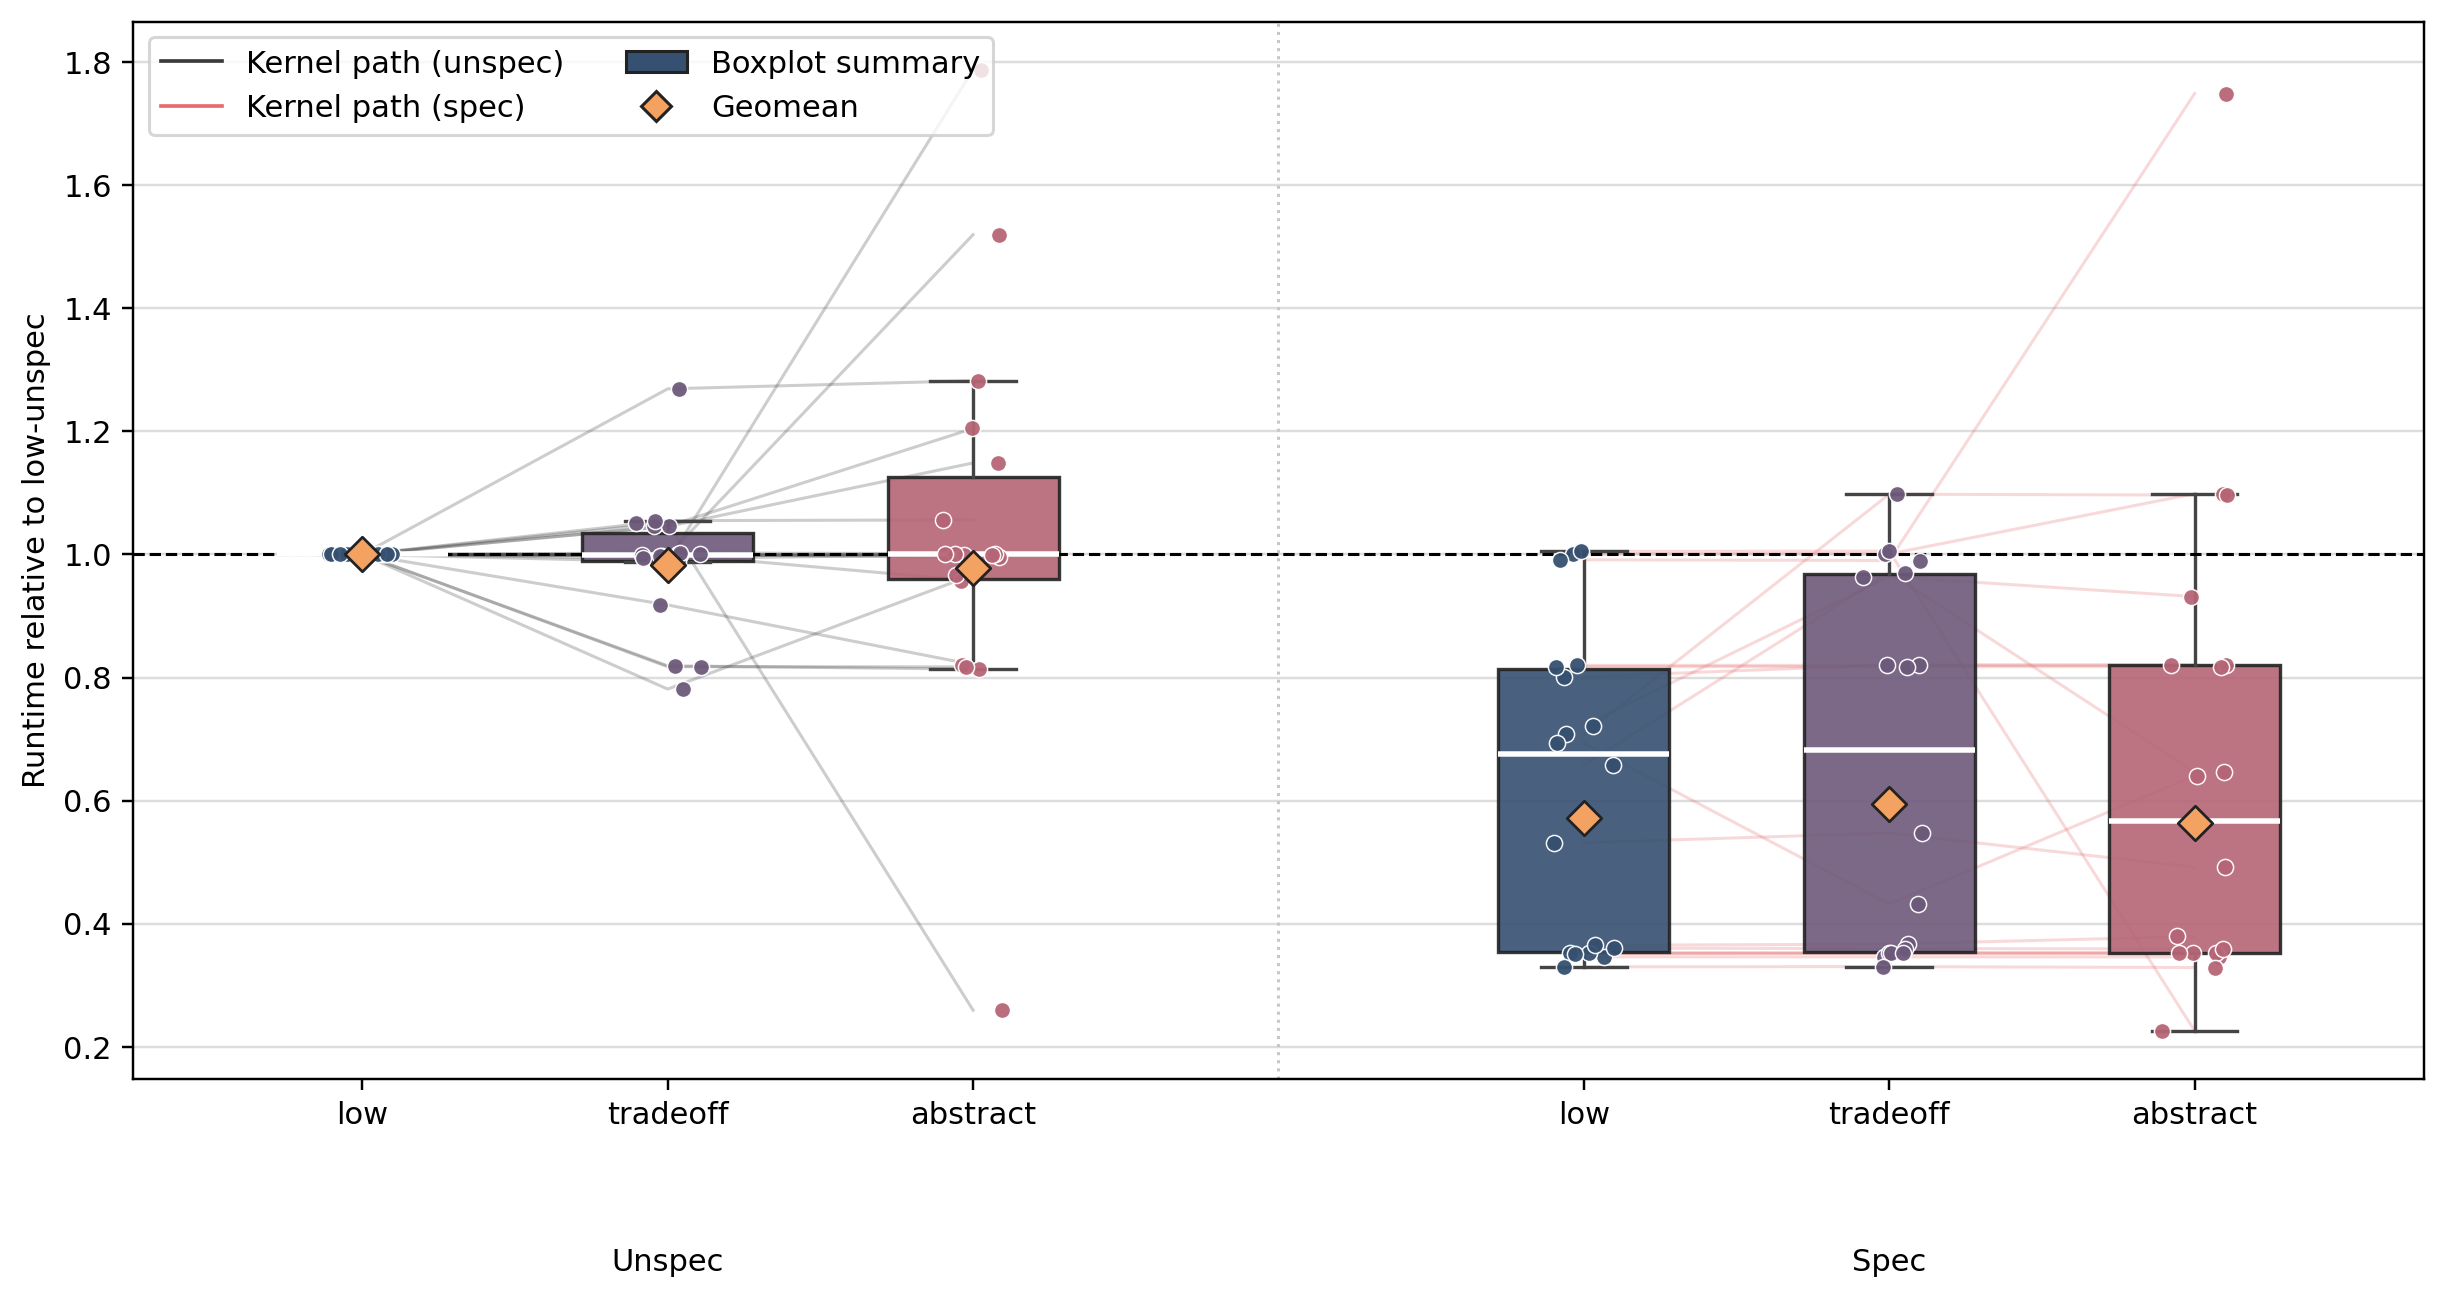
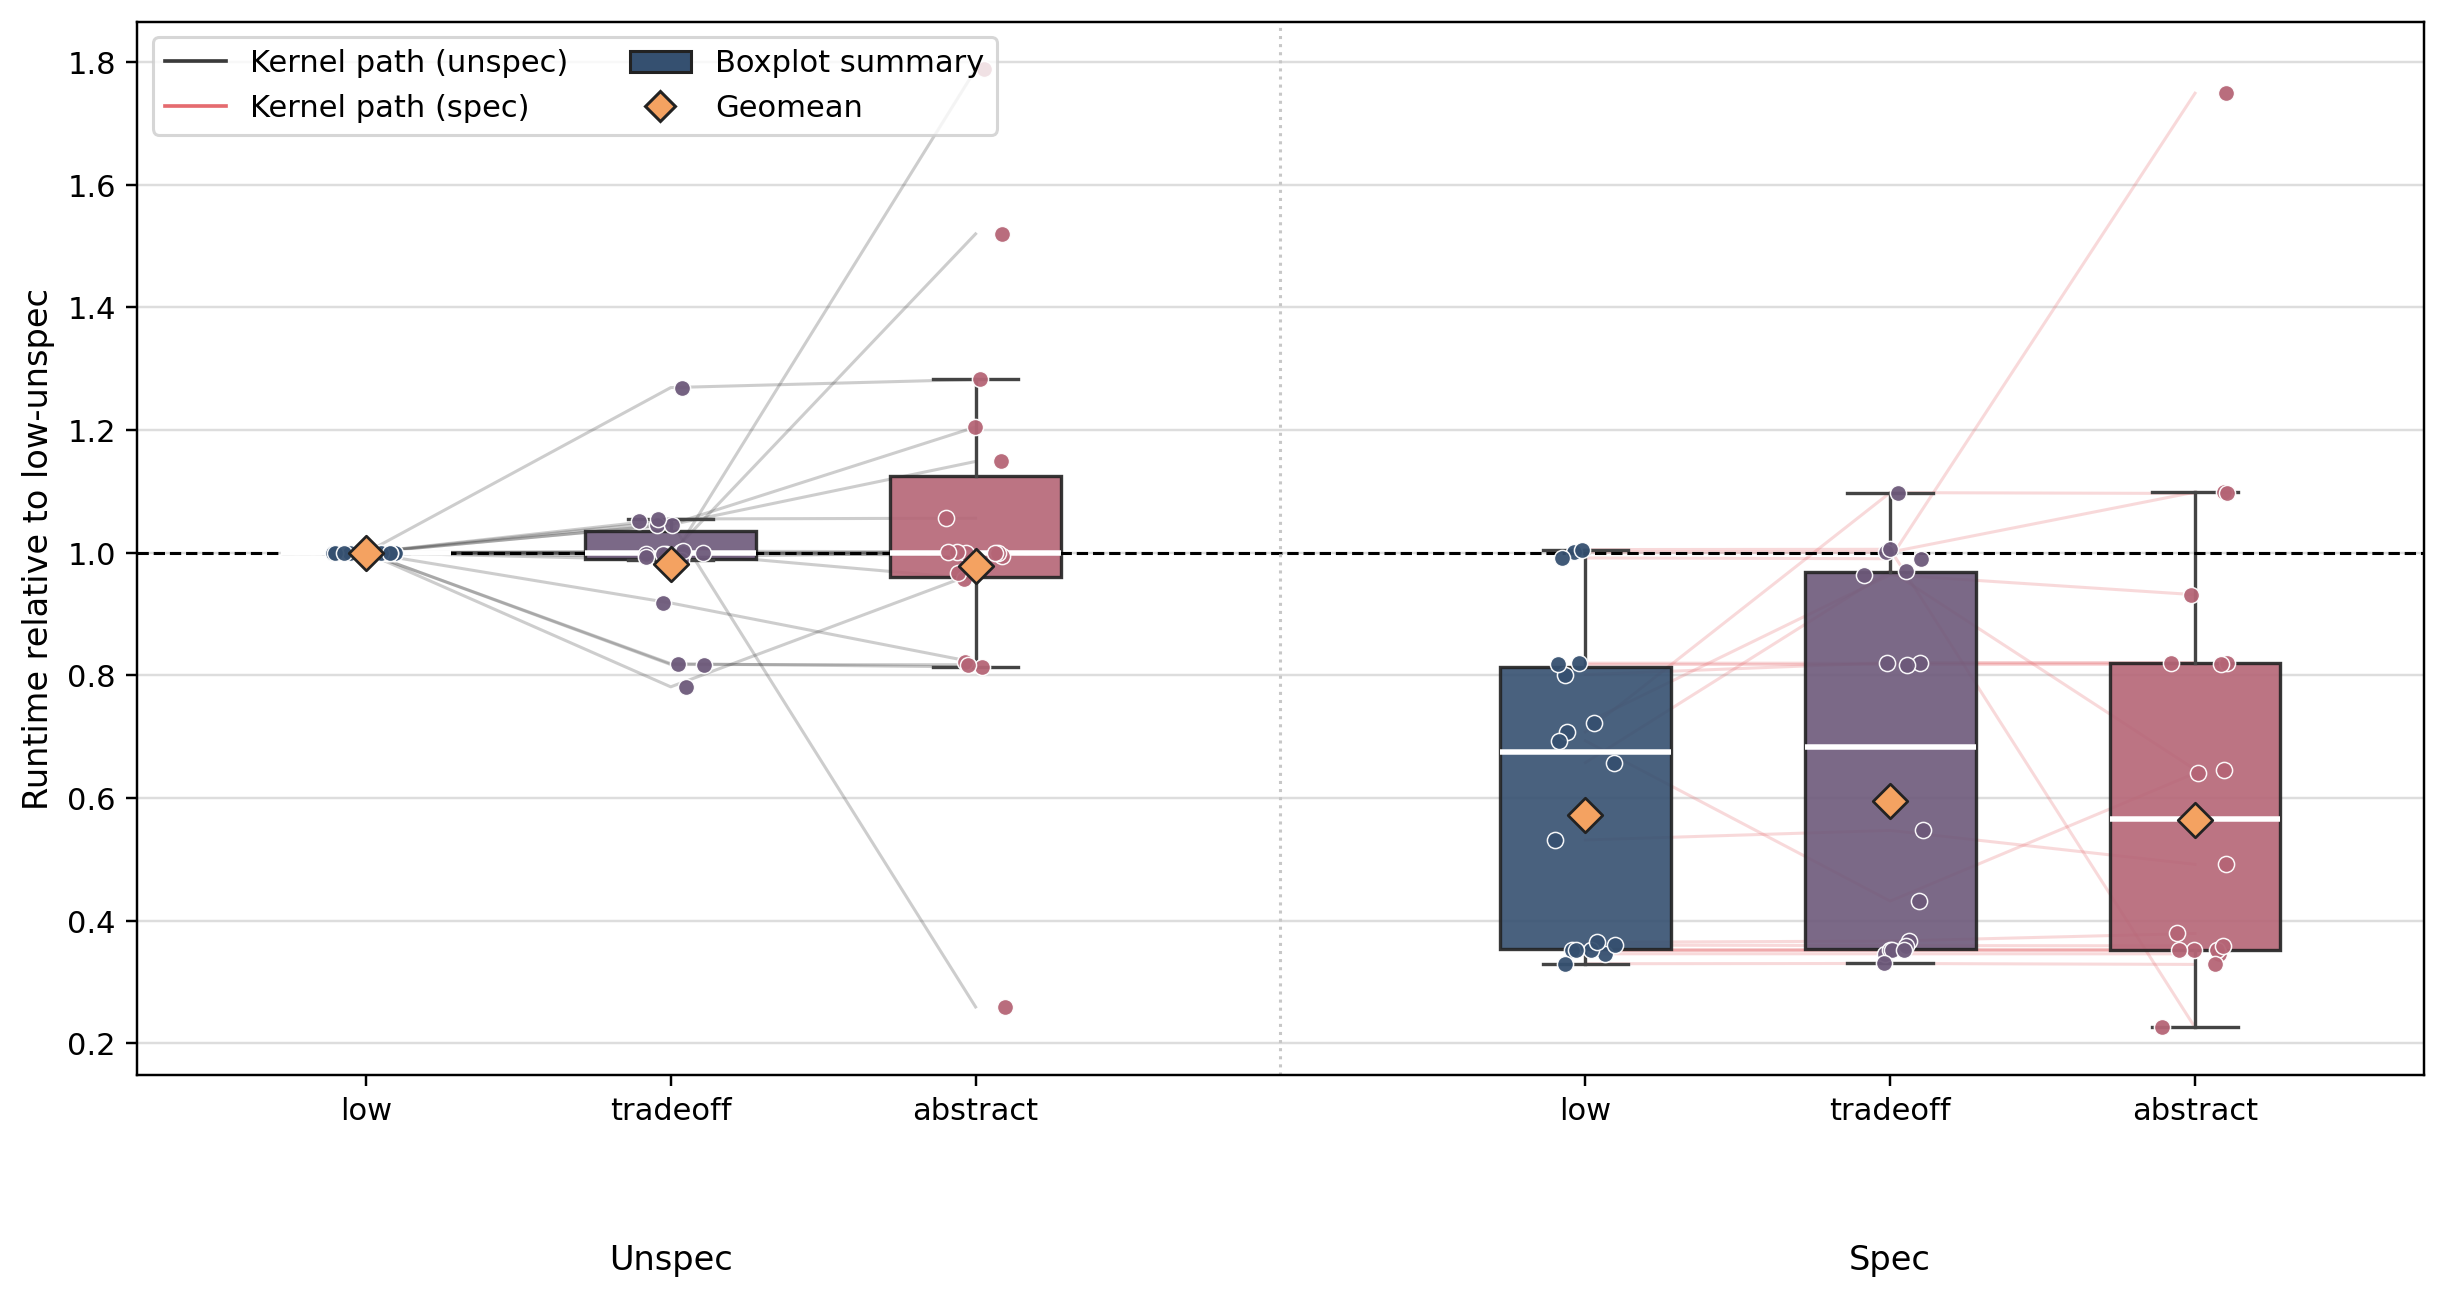
Improve thesis plot readability

diff --git a/runtime-specialization/benchmarks/reporting/plot_rq3_abstraction_benefit.py b/runtime-specialization/benchmarks/reporting/plot_rq3_abstraction_benefit.py
@@ -22,6 +22,18 @@ from matplotlib.patches import Patch
 import numpy as np
 import pandas as pd
 
+plt.rcParams.update(
+    {
+        "font.size": 11,
+        "axes.titlesize": 11,
+        "axes.labelsize": 11,
+        "xtick.labelsize": 10,
+        "ytick.labelsize": 10,
+        "legend.fontsize": 10,
+        "legend.title_fontsize": 10,
+    }
+)
+
 from report_utils import open_db, resolve_db_path, save_csv, save_plot
 
 
@@ -422,7 +434,7 @@ def _plot_aggregate(df: pd.DataFrame, output: Path, config_name: str, size: str)
 def _plot_kernel_grid(df: pd.DataFrame, output: Path, config_name: str, size: str) -> None:
     ordered_kernels = _ordered_kernel_rows(df)
     y_max = max(2.2, float(df["relative_runtime"].max()) * 1.08)
-    fig, axes = plt.subplots(3, 6, figsize=(18, 9.5), sharey=True, constrained_layout=True)
+    fig, axes = plt.subplots(3, 6, figsize=(20, 10.8), sharey=True, constrained_layout=True)
     axes_flat = axes.flatten()
 
     for ax, (group_name, kernel) in zip(axes_flat, ordered_kernels):
@@ -459,11 +471,11 @@ def _plot_kernel_grid(df: pd.DataFrame, output: Path, config_name: str, size: st
             [GROUP_POSITIONS[(phase, abstraction)] for phase in PHASE_ORDER for abstraction in ABSTRACTION_ORDER],
             ["L", "T", "A", "L", "T", "A"],
         )
-        ax.tick_params(axis="x", labelsize=8)
-        ax.tick_params(axis="y", labelsize=8)
-        ax.set_title(_kernel_display_label(group_name, kernel), fontsize=10)
-        ax.text(1.0, 0.98, "U", transform=ax.get_xaxis_transform(), ha="center", va="top", fontsize=8)
-        ax.text(5.0, 0.98, "S", transform=ax.get_xaxis_transform(), ha="center", va="top", fontsize=8)
+        ax.tick_params(axis="x", labelsize=9)
+        ax.tick_params(axis="y", labelsize=9)
+        ax.set_title(_kernel_display_label(group_name, kernel), fontsize=11)
+        ax.text(1.0, 0.98, "U", transform=ax.get_xaxis_transform(), ha="center", va="top", fontsize=9)
+        ax.text(5.0, 0.98, "S", transform=ax.get_xaxis_transform(), ha="center", va="top", fontsize=9)
 
     for ax in axes[:, 0]:
         ax.set_ylabel("relative runtime")

diff --git a/runtime-specialization/benchmarks/reporting/plot_rq1_perf_stats_boxplots.py b/runtime-specialization/benchmarks/reporting/plot_rq1_perf_stats_boxplots.py
@@ -18,6 +18,16 @@ matplotlib.use("Agg")
 import matplotlib.pyplot as plt
 import numpy as np
 
+plt.rcParams.update(
+    {
+        "font.size": 11,
+        "axes.labelsize": 11,
+        "xtick.labelsize": 10,
+        "ytick.labelsize": 10,
+        "legend.fontsize": 10,
+    }
+)
+
 
 def _parse_args() -> argparse.Namespace:
     parser = argparse.ArgumentParser(
@@ -78,7 +88,7 @@ def main() -> None:
     data = [default_speedups, best_speedups]
     ypos = np.array([2, 1], dtype=float)
 
-    fig, ax = plt.subplots(figsize=(9.2, 2), constrained_layout=True)
+    fig, ax = plt.subplots(figsize=(10.4, 2.6), constrained_layout=True)
     bp = ax.boxplot(
         data,
         positions=ypos,
@@ -138,7 +148,7 @@ def main() -> None:
             textcoords="offset points",
             va="top",
             ha="center",
-            fontsize=9,
+            fontsize=10,
             color="#222222",
             zorder=5,
         )
@@ -147,7 +157,7 @@ def main() -> None:
     ax.set_xlabel("Amortized speedup")
     ax.grid(axis="x", color="#d9d9d9", linewidth=0.8)
     ax.set_axisbelow(True)
-    ax.legend(loc="lower right")
+    ax.legend(loc="lower right", fontsize=10)
 
     fig.savefig(output, dpi=220, bbox_inches="tight")
     plt.close(fig)

diff --git a/runtime-specialization/benchmarks/reporting/plot_pareto_configs.py b/runtime-specialization/benchmarks/reporting/plot_pareto_configs.py
@@ -33,6 +33,17 @@ import matplotlib
 matplotlib.use("Agg")
 import matplotlib.pyplot as plt
 
+plt.rcParams.update(
+    {
+        "font.size": 11,
+        "axes.titlesize": 11,
+        "axes.labelsize": 11,
+        "xtick.labelsize": 10,
+        "ytick.labelsize": 10,
+        "legend.fontsize": 10,
+    }
+)
+
 sys.path.insert(0, str(Path(__file__).parent.parent))
 from record_benchmark import resolve_db_path
 from report_utils import make_report_dir
@@ -422,7 +433,7 @@ def render_kernel(rows, default_flags, output_path_png: Path, output_path_csv: P
     _write_csv(output_path_csv, rows, default_flags, global_pareto)
 
     # --- PNG ---
-    fig, ax = plt.subplots(figsize=(9, 6))
+    fig, ax = plt.subplots(figsize=(10, 6.8))
     dflags = np.array(default_flags)
 
     if has_levels:
@@ -492,8 +503,9 @@ def render_kernel(rows, default_flags, output_path_png: Path, output_path_csv: P
         ax.set_title(title)
     _dedupe_legend(ax)
     ax.grid(True, alpha=0.3)
+    ax.tick_params(axis="both", labelsize=10)
 
-    fig.savefig(output_path_png, dpi=150, bbox_inches="tight")
+    fig.savefig(output_path_png, dpi=180, bbox_inches="tight")
     plt.close(fig)
     print(f"  Saved: {output_path_png}")
     print(f"  Saved: {output_path_csv}")

diff --git a/runtime-specialization/benchmarks/reporting/plot_rq1_first_call_quadrants.py b/runtime-specialization/benchmarks/reporting/plot_rq1_first_call_quadrants.py
@@ -20,6 +20,18 @@ from matplotlib.lines import Line2D
 from matplotlib.ticker import FuncFormatter, LogLocator
 import pandas as pd
 
+plt.rcParams.update(
+    {
+        "font.size": 11,
+        "axes.titlesize": 11,
+        "axes.labelsize": 11,
+        "xtick.labelsize": 10,
+        "ytick.labelsize": 10,
+        "legend.fontsize": 10,
+        "legend.title_fontsize": 10,
+    }
+)
+
 from report_utils import open_db, resolve_db_path, save_csv, save_plot
 
 
@@ -301,7 +313,7 @@ def _plot_combined(df: pd.DataFrame, output_path: Path) -> None:
     fig, axes = plt.subplots(
         1,
         len(CONFIGS),
-        figsize=(13.2, 5.8),
+        figsize=(14.4, 6.4),
         sharex=True,
         sharey=True,
         constrained_layout=True,
